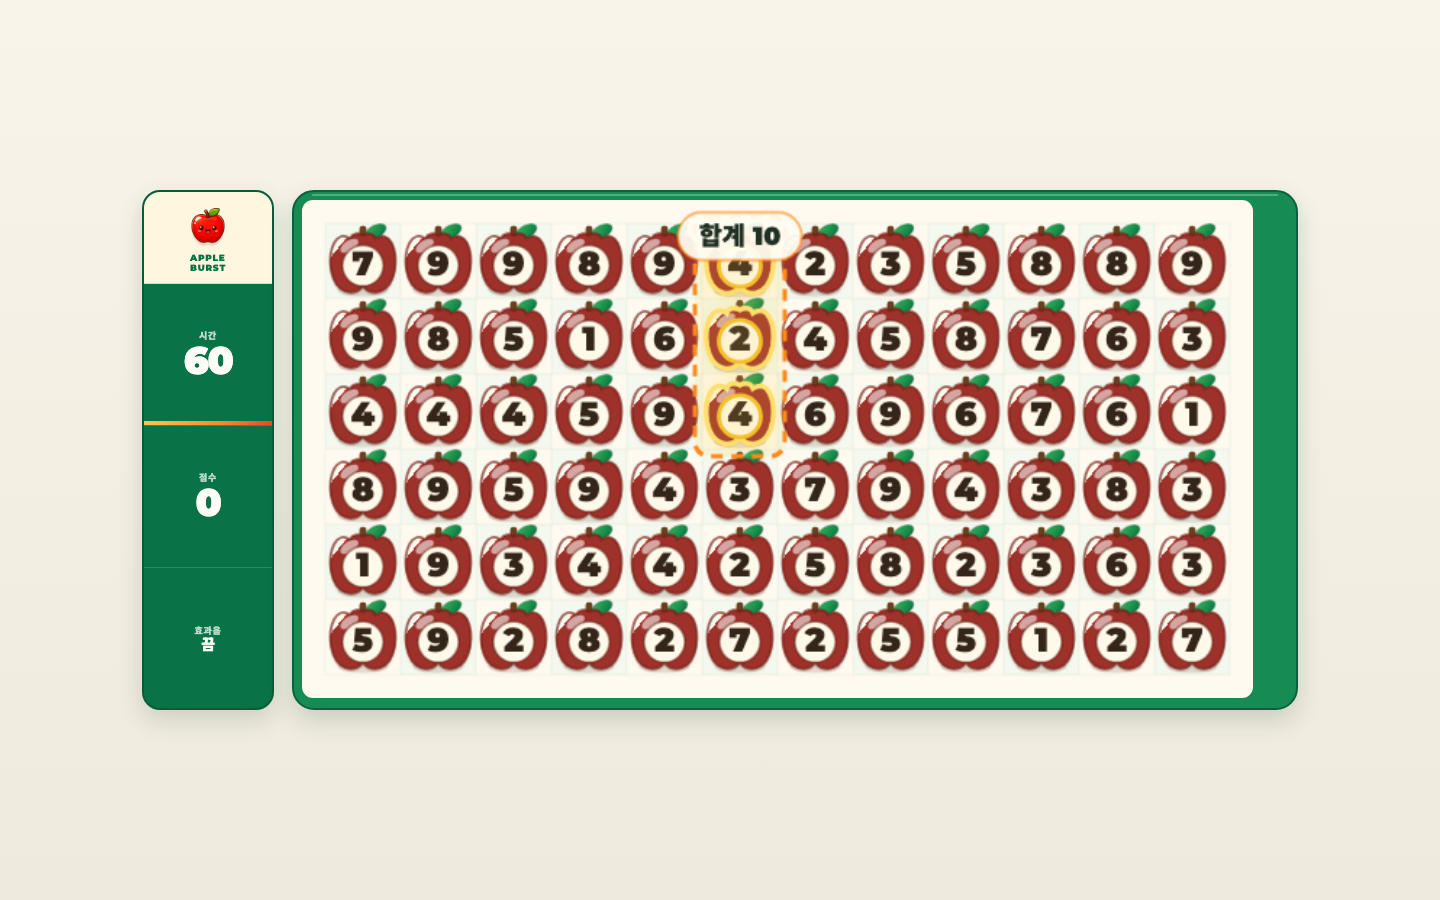
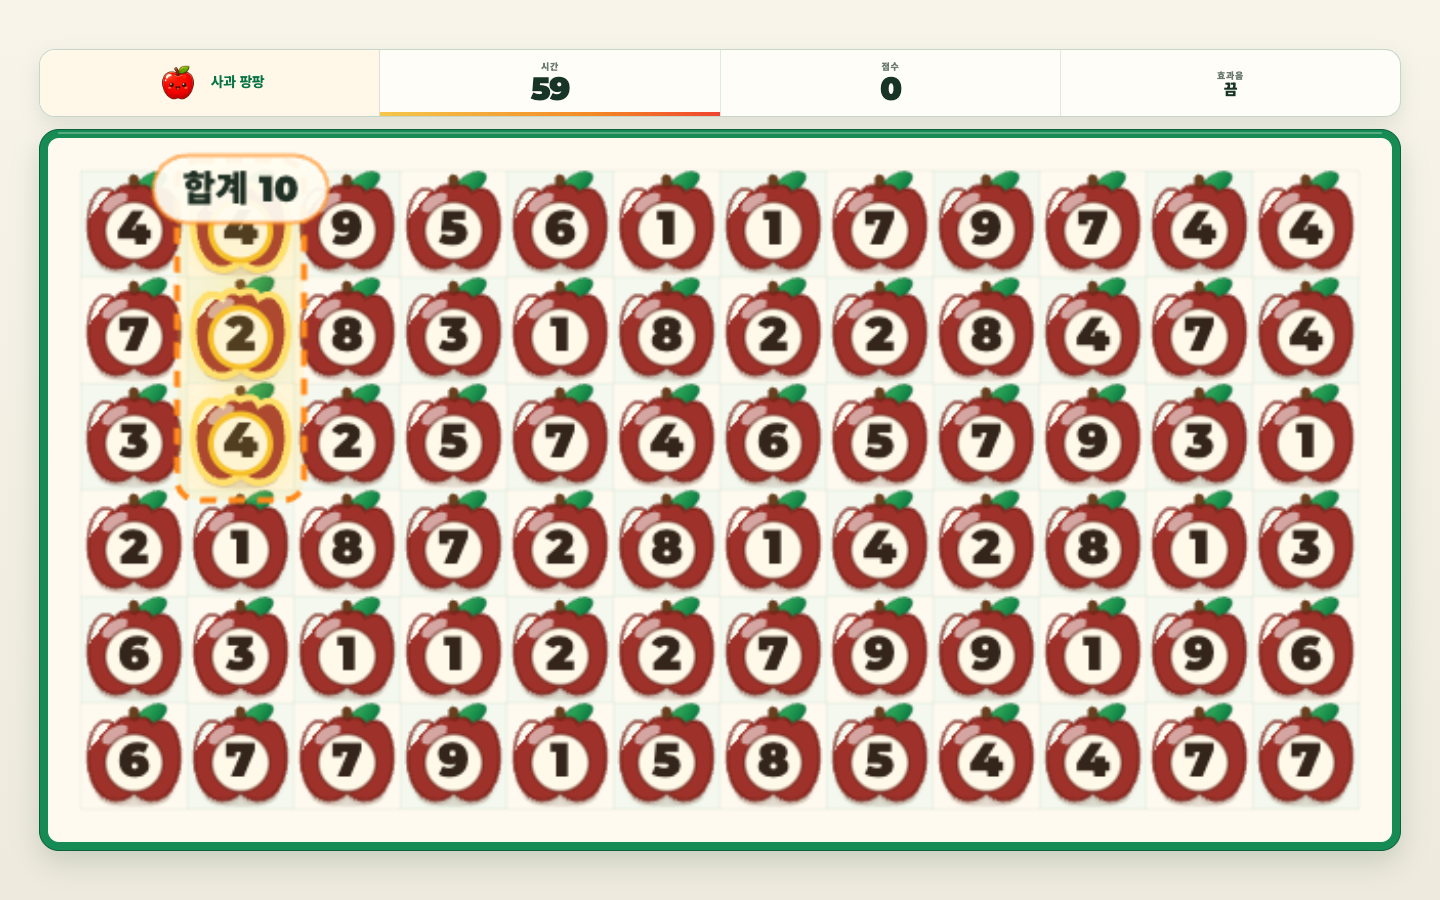
feat: redesign desktop game layout

diff --git a/index.html b/index.html
@@ -258,50 +258,45 @@
         #toast.show { opacity: 1; transform: translate(-50%, 0); }
 
         @media (min-width: 900px) and (pointer: fine) {
-            body {
-                background:
-                    radial-gradient(circle at 12% 18%, rgba(255, 138, 28, 0.10) 0 4px, transparent 5px),
-                    radial-gradient(circle at 88% 74%, rgba(9, 201, 93, 0.11) 0 5px, transparent 6px),
-                    linear-gradient(45deg, rgba(9,201,93,0.045) 25%, transparent 25%),
-                    linear-gradient(-45deg, rgba(9,201,93,0.045) 25%, transparent 25%),
-                    linear-gradient(45deg, transparent 75%, rgba(9,201,93,0.045) 75%),
-                    linear-gradient(-45deg, transparent 75%, rgba(9,201,93,0.045) 75%),
-                    var(--bg);
-                background-size: 180px 180px, 220px 220px, 24px 24px, 24px 24px, 24px 24px, 24px 24px;
-            }
             #game-container {
-                width: min(96vw, 1180px); display: grid; grid-template-columns: 126px minmax(0, 1fr);
-                align-items: stretch; gap: 14px; padding: 12px;
+                width: min(98vw, 1440px); display: flex; flex-direction: column;
+                align-items: center; gap: 12px; padding: 12px 16px;
             }
             #header {
-                width: 126px; height: 100%; grid-template-columns: 1fr; grid-template-rows: 92px repeat(3, 1fr);
-                margin: 0; border-radius: 14px; box-shadow: 0 7px 0 rgba(5,106,42,0.10);
+                width: min(100%, var(--chrome-width)); height: 68px;
+                grid-template-columns: repeat(4, minmax(0, 1fr));
+                grid-template-rows: 1fr;
+                margin: 0; border-radius: 16px;
             }
             .hud-mark {
-                display: flex; flex-direction: column; align-items: center; justify-content: center; gap: 3px;
-                padding: 8px 5px; color: var(--frame-dark); border-bottom: 1px solid rgba(5,106,42,0.16);
-                background: rgba(232,255,217,0.74);
+                display: flex; flex-direction: row; align-items: center; justify-content: center; gap: 10px;
+                min-width: 0; padding: 7px 16px; color: var(--frame-dark);
+                border-right: 1px solid rgba(5,106,42,0.16);
             }
-            .hud-mark img { width: 44px; height: 44px; object-fit: contain; filter: drop-shadow(0 3px 0 rgba(88,32,12,0.14)); }
-            .hud-mark span { font-size: 9px; line-height: 1.1; }
-            .stat, .sound-toggle { min-height: 0; padding: 8px 5px; }
-            .stat + .stat, .stat + .sound-toggle { border-left: 0; border-top: 1px solid rgba(5,106,42,0.16); }
-            .stat-label { font-size: 11px; }
-            .stat-value { font-size: 38px; }
-            .sound-toggle .stat-value { font-size: 18px; }
-            #stage-wrap { align-self: center; --stage-pad-top: 7px; --stage-pad-x: 7px; --stage-pad-bottom: 17px; border-radius: 18px; }
-            #stage-wrap::after { bottom: 6px; height: 6px; }
-            canvas { width: min(100%, 760px); }
+            .hud-mark img { width: 46px; height: 46px; object-fit: contain; }
+            .hud-mark span { font-size: 14px; line-height: 1.05; white-space: nowrap; }
+            .stat, .sound-toggle { min-height: 0; padding: 7px 12px; }
+            .stat + .stat,
+            .stat + .sound-toggle { border-top: 0; border-left: 1px solid rgba(5,106,42,0.16); }
+            .stat-label { font-size: 10px; }
+            .stat-value { font-size: 32px; }
+            .sound-toggle .stat-value { font-size: 17px; }
+            #stage-wrap {
+                align-self: center;
+                --stage-pad-top: 8px; --stage-pad-x: 8px; --stage-pad-bottom: 8px;
+                border-radius: 20px;
+            }
+            canvas { width: min(100%, 1344px); }
             #screen-start { flex-direction: row; justify-content: center; align-items: center; gap: 18px; padding: 18px 24px; overflow: hidden; }
-            .start-hero { width: min(46%, 390px); }
-            .start-layout { width: min(46%, 390px); margin-top: 0; gap: 8px; }
-            .brand { grid-template-columns: 56px auto; gap: 9px; }
-            .brand img { width: 56px; height: 56px; }
-            h1 { font-size: 52px; }
+            .start-hero { width: min(48%, 480px); }
+            .start-layout { width: min(44%, 430px); margin-top: 0; gap: 9px; }
+            .brand { grid-template-columns: 60px auto; gap: 10px; }
+            .brand img { width: 60px; height: 60px; }
+            h1 { font-size: 58px; }
             .brand-kicker { font-size: 12px; }
-            .tagline { font-size: 12px; }
-            .play-preview { width: min(100%, 330px); margin-top: 10px; }
-            #rank-container { max-height: 132px; padding: 8px; }
+            .tagline { font-size: 13px; }
+            .play-preview { width: min(100%, 360px); margin-top: 12px; }
+            #rank-container { max-height: 144px; padding: 9px; }
             .rank-head { margin-bottom: 4px; }
             .rank-meta { margin-bottom: 3px; font-size: 9px; }
             .local-best-card { min-height: 36px; padding: 3px; }
@@ -563,43 +558,69 @@
         }
 
         @media (min-width: 900px) and (pointer: fine) {
-            #game-container { grid-template-columns: 132px minmax(0, 1fr); gap: 18px; }
+            #game-container { gap: 12px; }
             #header {
-                width: 132px;
-                overflow: hidden; border: 2px solid #075d3b; border-radius: 18px;
-                background: #087445;
-                box-shadow: 0 10px 24px rgba(18,63,40,0.16);
+                overflow: hidden; border: 1px solid rgba(7,93,59,0.24); border-radius: 16px;
+                background: rgba(255,253,247,0.98);
+                box-shadow: 0 8px 20px rgba(32,68,48,0.11);
             }
             .hud-mark {
-                color: #075d3b; border-bottom-color: rgba(7,93,59,0.16);
-                background: #fff6df;
+                color: #087445; border-right-color: rgba(7,93,59,0.14);
+                background: #fff8e8;
             }
-            .hud-mark img { width: 48px; height: 48px; }
-            .hud-mark span { color: #087445; letter-spacing: 0.08em; }
+            .hud-mark img { width: 46px; height: 46px; }
+            .hud-mark span { color: #087445; letter-spacing: -0.03em; }
             .stat + .stat,
-            .stat + .sound-toggle { border-top-color: rgba(255,255,255,0.16); }
-            .stat-label { color: rgba(255,255,255,0.72); }
+            .stat + .sound-toggle { border-left-color: rgba(7,93,59,0.12); }
+            .stat-label { color: #6b7b70; }
             .stat-value,
-            .sound-toggle .stat-value { color: #fffdf7; }
-            .stat.warning { background: #923126; }
-            .stat.warning .stat-label { color: #ffd8c8; }
-            .stat.warning .stat-value { color: #fff; }
-            .sound-toggle { border-radius: 0 0 16px 16px; color: #fff; }
-            .sound-toggle[aria-pressed="true"] { background: rgba(255,255,255,0.12); }
+            .sound-toggle .stat-value { color: #173426; }
+            .stat.warning { background: #fff0e8; }
+            .stat.warning .stat-label { color: #9f3b22; }
+            .stat.warning .stat-value { color: #d83f2c; }
+            .sound-toggle { border-radius: 0 15px 15px 0; color: #173426; }
+            .sound-toggle[aria-pressed="true"] { background: #e7f6e9; }
             #stage-wrap {
-                --stage-pad-top: 8px; --stage-pad-x: 8px; --stage-pad-bottom: 10px;
-                border-radius: 22px;
+                --stage-pad-top: 8px; --stage-pad-x: 8px; --stage-pad-bottom: 8px;
+                border: 1px solid #0c6040; border-radius: 20px;
+                box-shadow: 0 12px 28px rgba(21,66,43,0.17);
             }
             #screen-start { gap: 28px; padding: 22px 30px; }
             .start-hero {
-                width: min(48%, 410px); padding: 20px 16px;
+                width: min(48%, 480px); padding: 20px 24px;
                 border-right: 1px solid rgba(7,93,59,0.12);
             }
-            .start-layout { width: min(44%, 390px); margin-top: 0; gap: 11px; }
-            .brand { grid-template-columns: 64px auto; }
-            .brand img { width: 64px; height: 64px; }
-            h1 { font-size: 56px; }
+            .start-layout { width: min(44%, 430px); margin-top: 0; gap: 11px; }
+            .brand { grid-template-columns: 68px auto; }
+            .brand img { width: 68px; height: 68px; }
+            h1 { font-size: 62px; }
             .play-preview { margin-top: 13px; }
+            .combo-feedback { top: 16px; }
+        }
+        @media (min-width: 1200px) and (min-height: 760px) and (pointer: fine) {
+            #screen-start { gap: 42px; padding: 34px 48px; }
+            .start-hero { width: min(48%, 520px); padding: 28px 32px; }
+            .start-layout { width: min(44%, 470px); gap: 14px; }
+            .brand { grid-template-columns: 78px auto; gap: 14px; }
+            .brand img { width: 78px; height: 78px; }
+            h1 { font-size: 70px; }
+            .brand-kicker { font-size: 13px; }
+            .tagline { font-size: 15px; }
+            .play-preview { width: min(100%, 400px); padding: 14px 16px; }
+            .preview-apple { width: 54px; height: 54px; }
+            .preview-apple strong { width: 31px; height: 31px; font-size: 19px; }
+            .preview-result { font-size: 15px; }
+            .preview-result strong { font-size: 27px; }
+            .mode-btn { min-height: 50px; font-size: 12px; }
+            .apple-play { min-height: 70px; font-size: 20px; }
+            .apple-play img { width: 48px; height: 48px; }
+            .how-to { font-size: 11px; }
+            #rank-container { max-height: 164px; padding: 12px; }
+            .local-best-card { min-height: 48px; }
+            #screen-result { padding: 28px 40px; }
+            .result-title { font-size: 52px; }
+            .result-card { width: min(76%, 620px); padding: 18px 22px; }
+            #res-score { font-size: 64px; }
         }
 
         @media (orientation: portrait) and (max-width: 520px) {
@@ -688,7 +709,7 @@
     <header id="header" aria-label="게임 현황">
         <div class="hud-mark" aria-hidden="true">
             <img src="assets/apple-mascot.png" alt="">
-            <span>APPLE<br>BURST</span>
+            <span>사과 팡팡</span>
         </div>
         <div class="stat time-stat"><div class="stat-label">시간</div><div id="v-time" class="stat-value">60</div></div>
         <div class="stat right"><div class="stat-label">점수</div><div id="v-score" class="stat-value">0</div></div>
@@ -1133,12 +1154,12 @@ const Game = {
         const containerY = px(containerStyle.paddingTop) + px(containerStyle.paddingBottom);
         let scale;
         if(this.desktopLayout) {
-            const headerW = header ? header.offsetWidth : 126;
-            const gridGap = px(containerStyle.columnGap);
-            const containerW = Math.min(viewport.width * 0.96, 1180);
-            const availableW = Math.max(560, containerW - containerX - headerW - gridGap - frameX);
-            const availableH = Math.max(330, viewport.height - containerY - frameY);
-            scale = Math.min(availableW / baseW, availableH / baseH, 1.45);
+            const headerH = header ? header.offsetHeight : 68;
+            const layoutGap = px(containerStyle.rowGap);
+            const containerW = Math.min(viewport.width * 0.98, 1440);
+            const availableW = Math.max(560, containerW - containerX - frameX);
+            const availableH = Math.max(330, viewport.height - containerY - headerH - layoutGap - frameY);
+            scale = Math.min(availableW / baseW, availableH / baseH, 2.05);
         } else {
             const headerH = header ? header.offsetHeight : 50;
             const headerGap = px(getComputedStyle(header).marginBottom);

diff --git a/README.md b/README.md
@@ -44,7 +44,8 @@
 데스크톱:
 
 - 900px 이상, 정밀 포인터 환경에서 가로형 게임판 적용
-- 시간·점수·효과음을 왼쪽 HUD에 배치
+- 시간·점수·효과음을 게임판 위 가로 HUD에 배치
+- 화면 너비와 높이를 함께 계산해 게임판을 가능한 크게 표시
 - 시작·게임·결과 화면을 가로 화면에 맞게 확장
 
 ## 시작과 피드백
